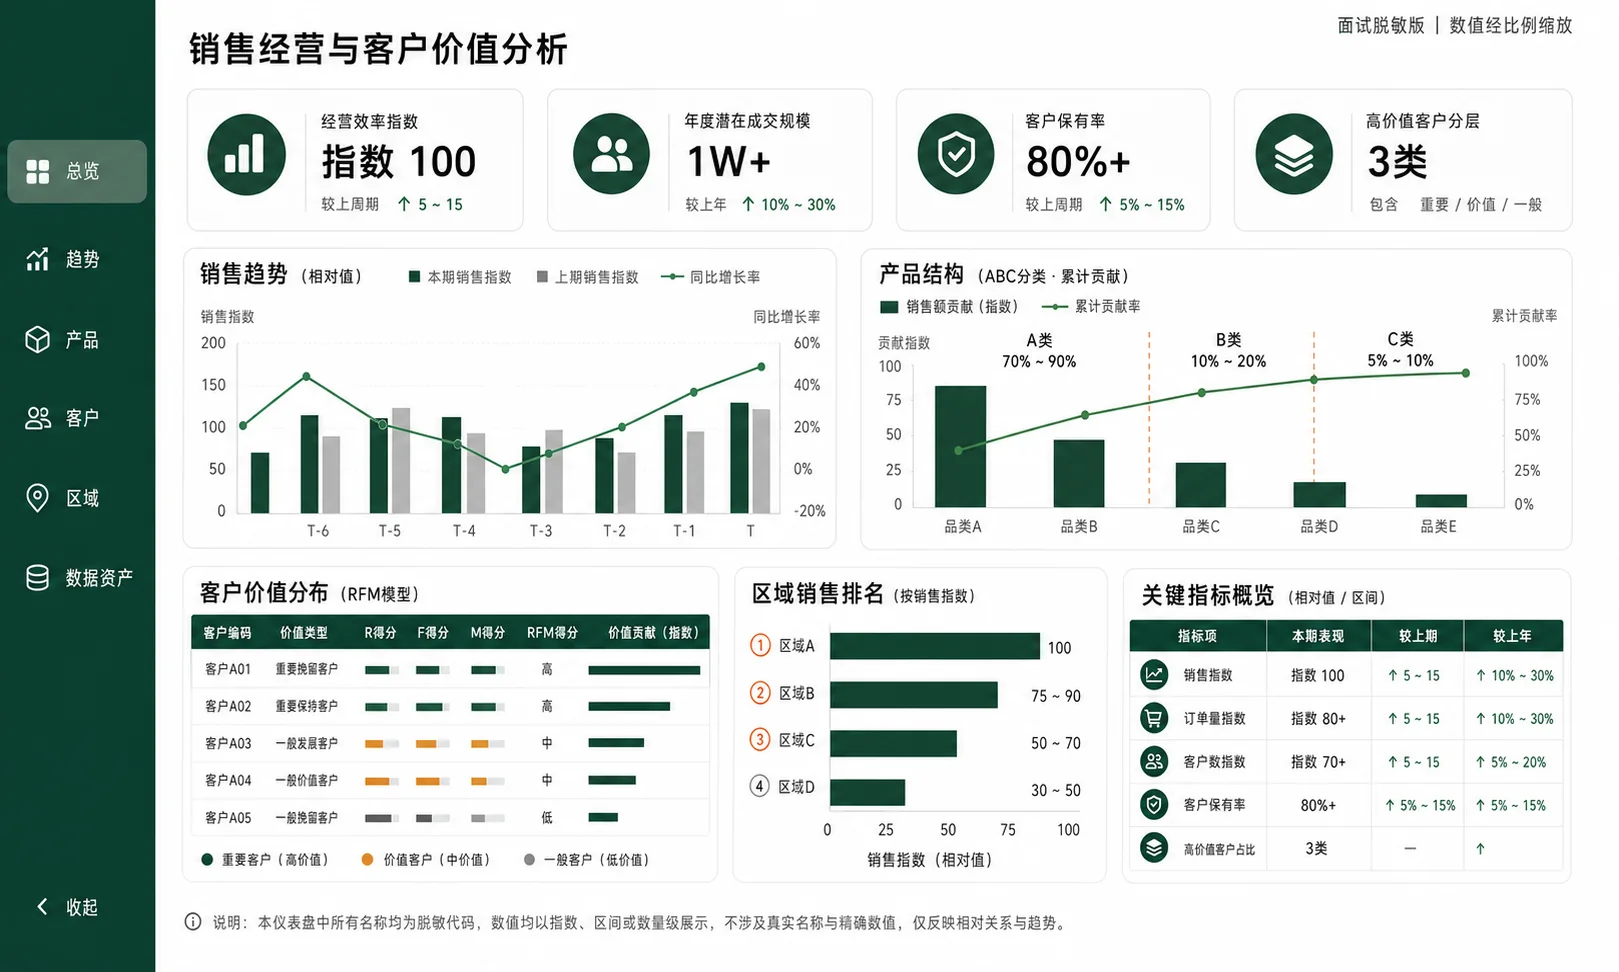
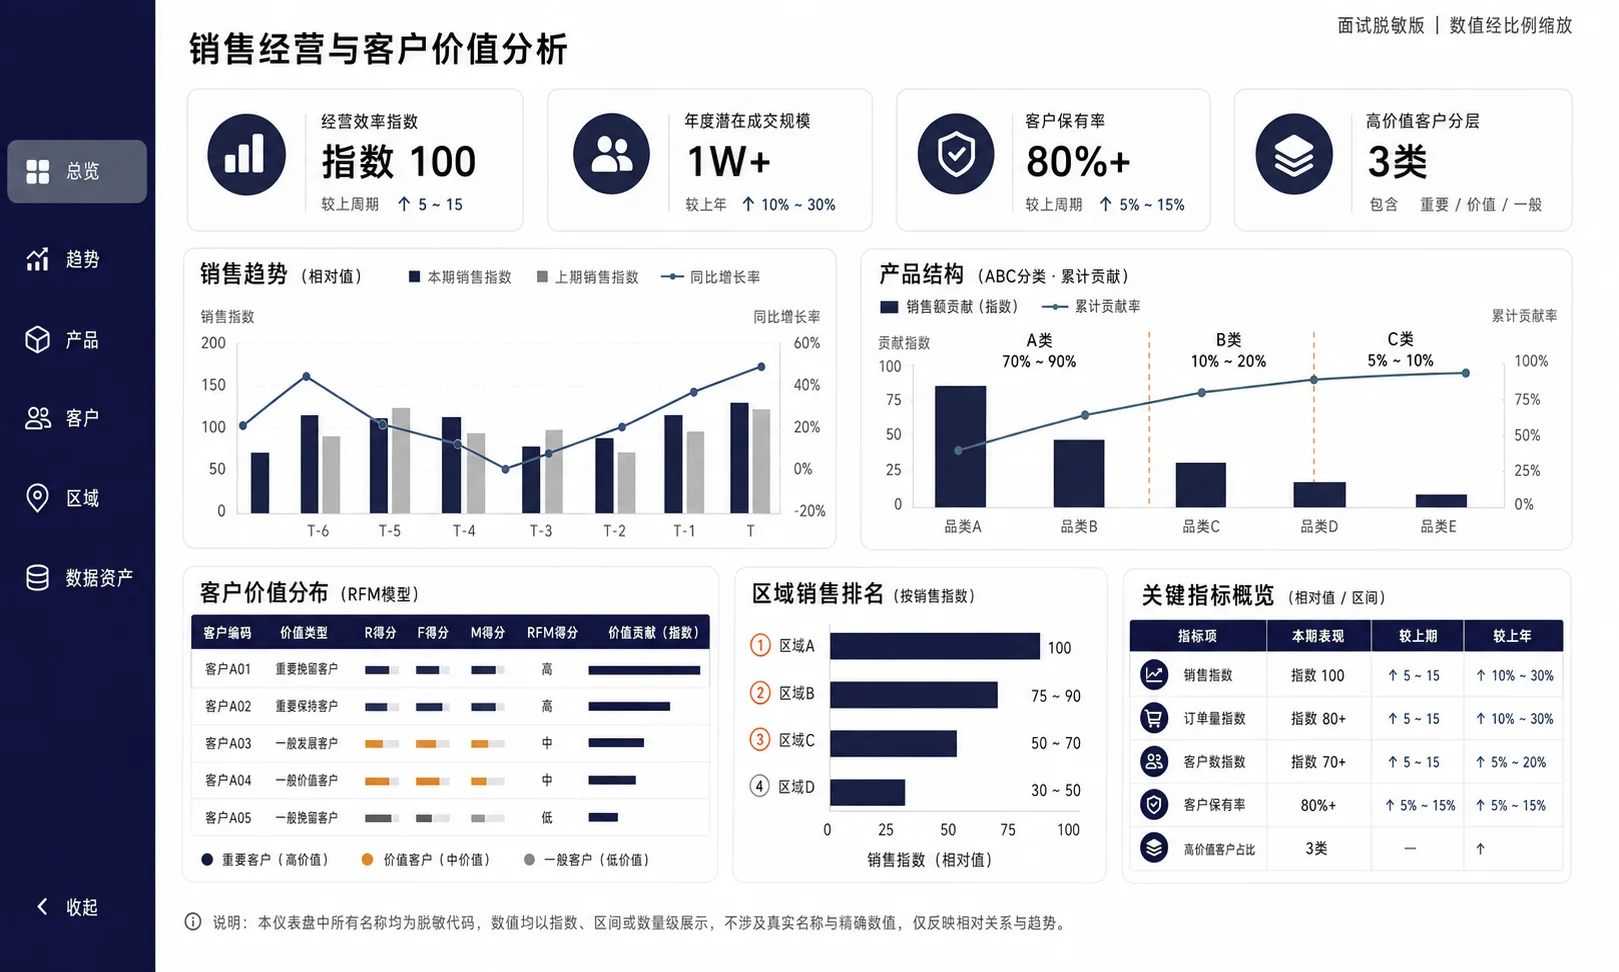
Publish portfolio: recolor dashboards to site palette, simplify layout, slim assets

diff --git a/index.html b/index.html
@@ -391,7 +391,7 @@
 
     <section id="case-target-bi" class="case-study section">
       <div class="container">
-        <details class="case-details reveal" data-auto-open="true">
+        <details class="case-details reveal">
           <summary class="case-details-summary">
             <span class="case-index">03</span>
             <div>
@@ -464,7 +464,7 @@
 
     <section id="case-user-behavior" class="case-study case-study-alt section">
       <div class="container">
-        <details class="case-details reveal" data-auto-open="true">
+        <details class="case-details reveal">
           <summary class="case-details-summary">
             <span class="case-index">04</span>
             <div>
@@ -588,7 +588,7 @@
               <svg aria-hidden="true" viewBox="0 0 24 24"><path d="M12 5v14M6 13l6 6 6-6"/></svg>
             </a>
           </div>
-          <p>联系请通过招聘平台或附件简历<span></span>上海</p>
+          <p>base 上海 · 联系请通过招聘平台或附件简历</p>
         </div>
       </div>
     </section>

diff --git a/styles.css b/styles.css
@@ -32,6 +32,7 @@ body {
   font-family: "Microsoft YaHei", "PingFang SC", "Noto Sans CJK SC", sans-serif;
   font-size: 16px;
   line-height: 1.75;
+  font-variant-numeric: tabular-nums;
   -webkit-font-smoothing: antialiased;
 }
 
@@ -431,13 +432,8 @@ svg {
   object-position: top;
 }
 
-/* Keep the original chart hierarchy while gently moving the green exports
-   toward the site's restrained blue palette. */
-img[src*="sales-value-sanitized"],
-img[src*="target-bi-sanitized"],
-img[src*="user-behavior-sanitized"] {
-  filter: hue-rotate(58deg) saturate(0.68) brightness(1.01) contrast(1.01);
-}
+/* Dashboard images (sales-value / target-bi / user-behavior) are exported in
+   the site's blue-green palette, so no runtime colour filter is needed. */
 
 .dashboard-window-back {
   top: 16px;
@@ -823,7 +819,7 @@ img[src*="user-behavior-sanitized"] {
 .project-float-nav {
   position: fixed;
   top: 50%;
-  right: max(18px, calc((100vw - var(--container)) / 2 - 118px));
+  right: 18px;
   z-index: 42;
   display: grid;
   width: 94px;

diff --git a/app.js b/app.js
@@ -55,7 +55,6 @@ document.querySelectorAll(".zoom-trigger").forEach((trigger) => {
 function closeDialog() {
   dialog.close();
   document.body.classList.remove("dialog-open");
-  dialogImage.src = "";
 }
 
 dialogClose.addEventListener("click", closeDialog);
@@ -64,7 +63,6 @@ dialog.addEventListener("click", (event) => {
 });
 dialog.addEventListener("cancel", () => {
   document.body.classList.remove("dialog-open");
-  dialogImage.src = "";
 });
 
 const revealObserver = new IntersectionObserver(
